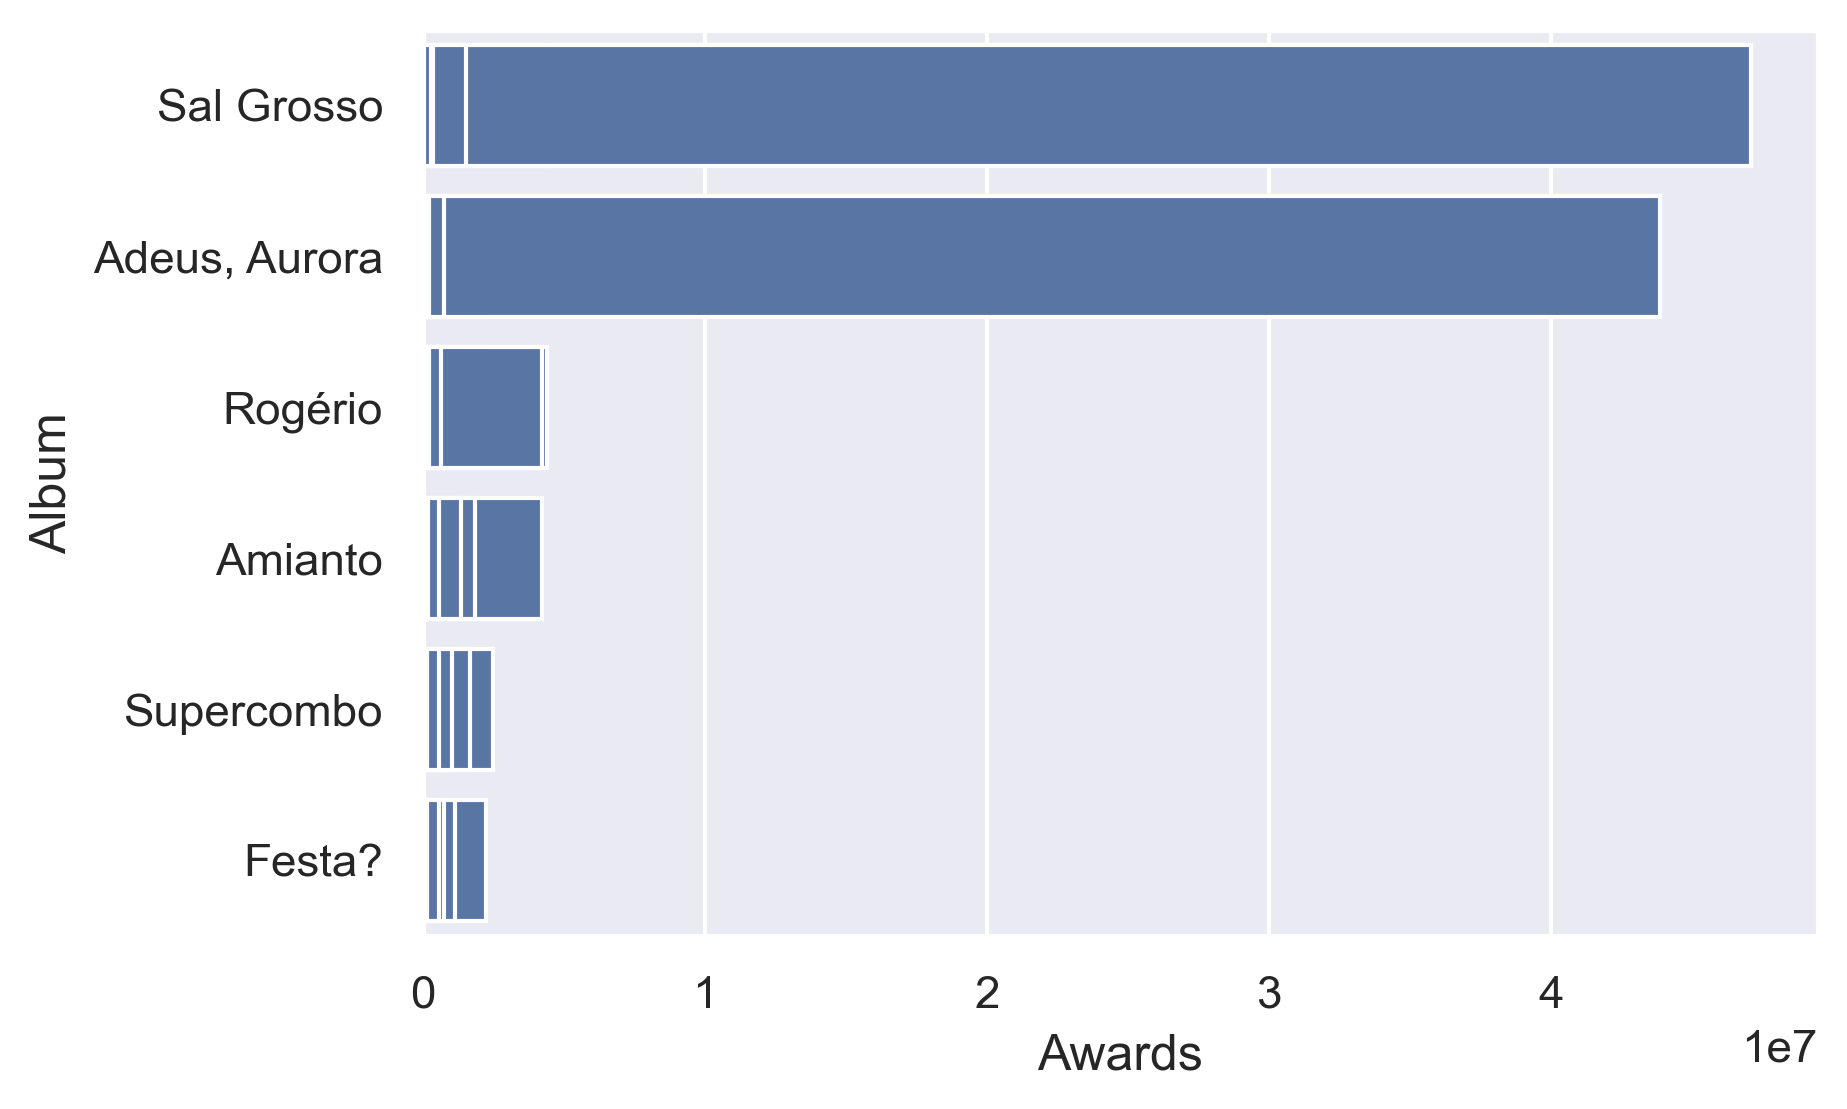
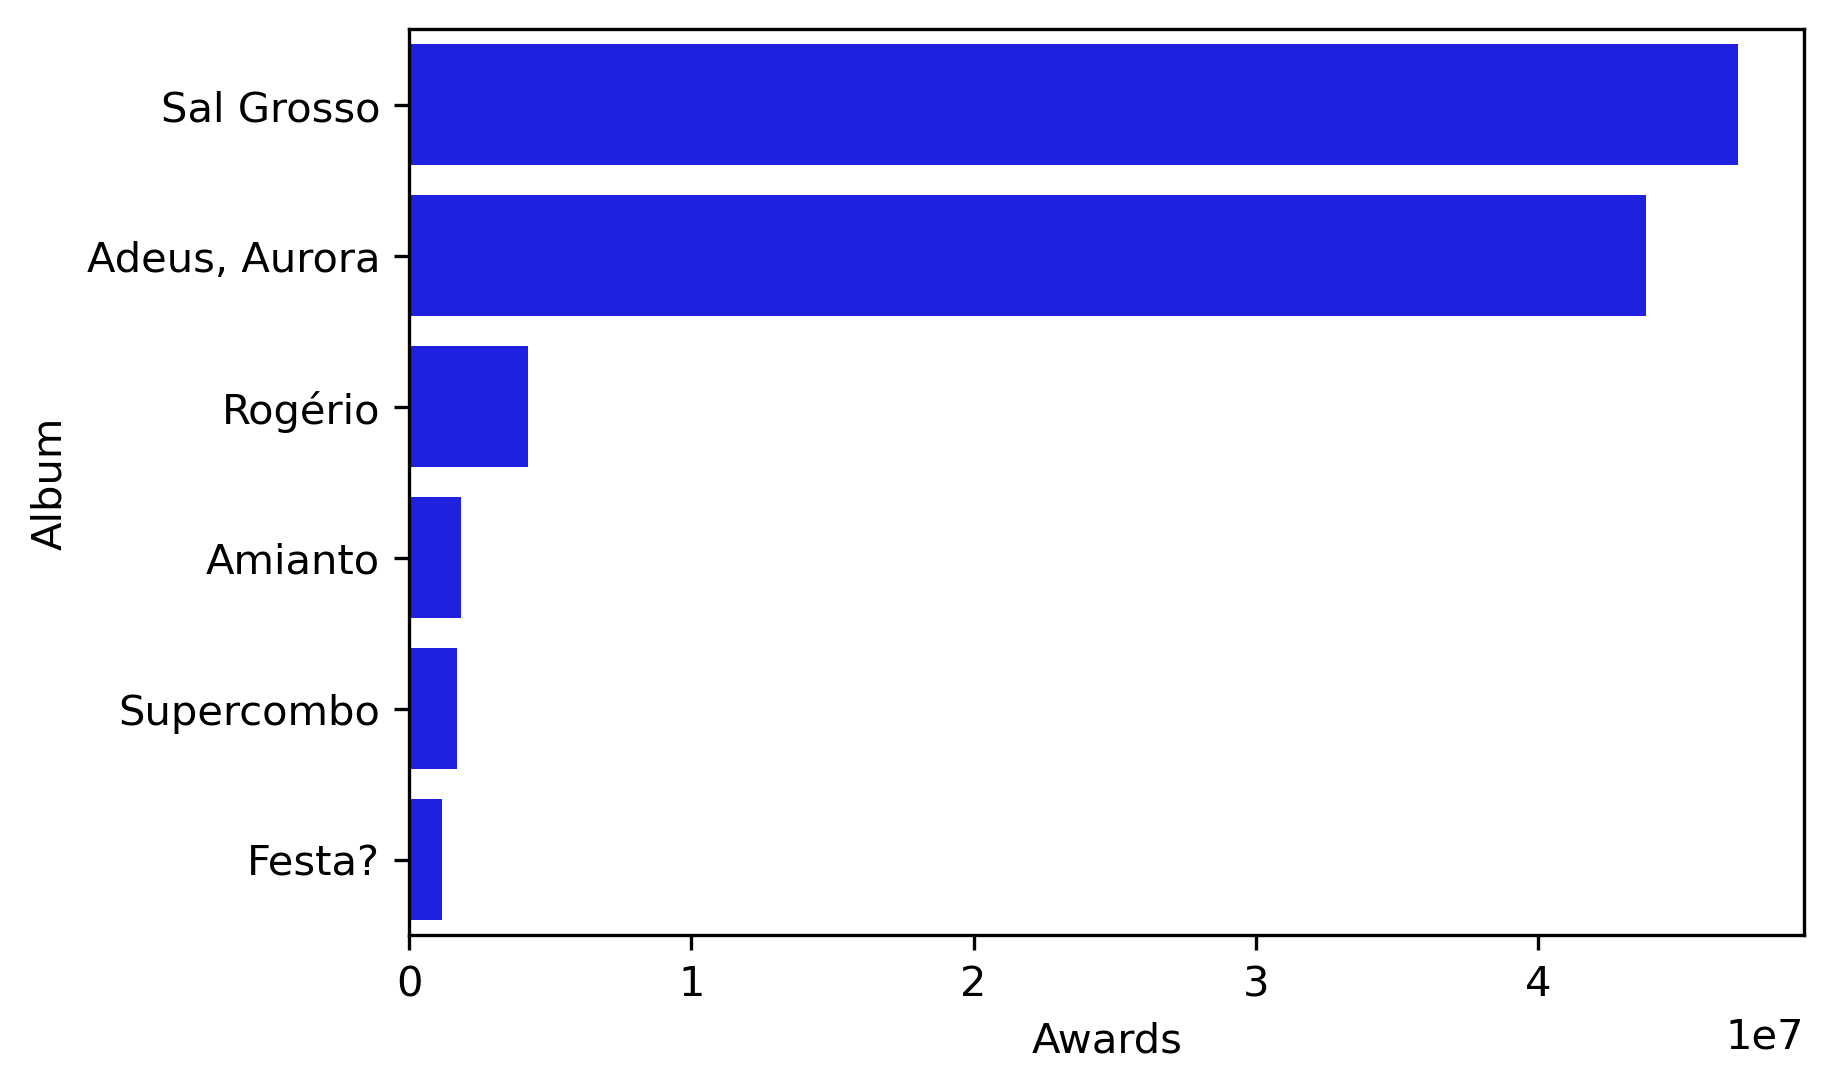
Seaborns final

diff --git a/source/questions.py b/source/questions.py
@@ -93,20 +93,20 @@ def longa_curta_album(df1,df2):
         
     n2 = 0
     for i in df1['Album']:
-        df_r_time_album = pd.DataFrame({"Música": musicList[n2], "Tempo": timesList[n2]})
+        df_r_time_album = pd.DataFrame({"Music": musicList[n2], "Time": timesList[n2]})
         
         print("Album: ", i, "\n")
-        print("Mais longas: \n", df_r_time_album.sort_values(by = 'Tempo', ascending = False).head(3), "\n", sep="")
-        print("Mais curtas: \n", df_r_time_album.sort_values(by = 'Tempo', ascending = True).head(3), sep="")
+        print("Mais longas: \n", df_r_time_album.sort_values(by = 'Time', ascending = False).head(3), "\n", sep="")
+        print("Mais curtas: \n", df_r_time_album.sort_values(by = 'Time', ascending = True).head(3), sep="")
         print("\n\n")
         
         #Média do tempo das músicas por álbum:
-        print("Média de tempo de música por álbum: ",round(df_r_time_album['Tempo'].mean(),2),"\n \n")
+        print("Média de tempo de música por álbum: ",round(df_r_time_album['Time'].mean(),2),"\n \n")
     
         #Seaborn plot
-        sns.set(font_scale=1)
-        sns.barplot(x="Tempo", y="Música", data=df_r_time_album.sort_values(by = 'Tempo', ascending = False), color="b")
-        plt.savefig("..\\images\\time_album" + str(n2) + ".png", dpi = 300, bbox_inches = 'tight')
+        
+        sns.barplot(x="Time", y="Music", data=df_r_time_album.sort_values(by = 'Time', ascending = False), color="b")
+        plt.savefig("..\\images\\time_byalbum" + str(n2) + ".png", dpi = 300, bbox_inches = 'tight')
         
         n2 += 1
 # Mais ouvidas e menos ouvidas por álbum:
@@ -172,7 +172,7 @@ def popular_inpopular_album(df1,df2):
         print("\n\n")
         
         #Seaborn plot
-        sns.set(font_scale=1)
+        
         sns.barplot(x='Views', y='Music', data=df_r_viw_album.sort_values(by = 'Views', ascending = False), color="b")
         plt.savefig("..\\images\\popularity_by_album_" + str(n2) + ".png", dpi = 300, bbox_inches = 'tight')
 
@@ -183,7 +183,7 @@ def popular_inpopular_album(df1,df2):
 def longa_curta(df1,df2):
     
     """
-    Prints the longest and shortest song in the entire discography on the console, and creates a seaborn plot,'time_music_ranking.png', with the musics in descending order by time.
+    Prints the longest and shortest song in the entire discography on the console, and creates two seaborns plots, one with the 10 longest musics and other with the 10 shortest.
 
     :param df1: pandas.core.frame.DataFrame
     :param df2: pandas.core.frame.DataFrame
@@ -217,16 +217,19 @@ def longa_curta(df1,df2):
     print("\n")
     
     #Seaborn plot
-    sns.set(font_scale=0.08)
-    sns.barplot(x='Time', y='Music', data=df2.sort_values(by = 'Time', ascending = False), color="b")
-    plt.savefig("..\\images\\time_music_ranking.png", dpi = 300, bbox_inches = 'tight')
-
+    
+    sns.barplot(x='Time', y='Music', data=df2.head(10).sort_values(by = 'Time', ascending = False), color="b")
+    plt.savefig("..\\images\\time_music_headranking.png", dpi = 300, bbox_inches = 'tight')
+    
+    sns.barplot(x='Time', y='Music', data=df2.tail(10).sort_values(by = 'Time', ascending = False), color="b")
+    plt.savefig("..\\images\\time_music_tailranking.png", dpi = 300, bbox_inches = 'tight')
+    
 # Mais vista e menos vista de todas
 
 def popular_inpopular(df1,df2):
     
     """
-    Prints on the console the most popular and least popular song of the entire discography, and creates a seaborn plot,'music_views_ranking.png' with the musics in descending order by number of the views.
+    Prints on the console the most popular and least popular song of the entire discography, and creates 2 seaborns plots,one with the 10 more famous, and other with the 10 less famous musics.
 
     :param df1: pandas.core.frame.DataFrame
     :param df2: pandas.core.frame.DataFrame
@@ -262,9 +265,12 @@ def popular_inpopular(df1,df2):
     print("\n")
     
     #Seaborn plot
-    sns.set(font_scale=0.08)
-    sns.barplot(x='Views', y='Music', data=df2.sort_values(by = 'Views', ascending = False), color="b")
-    plt.savefig("..\\images\\music_views_ranking.png", dpi = 300, bbox_inches = 'tight')
+    
+    sns.barplot(x='Views', y='Music', data=df2.head(10).sort_values(by = 'Views', ascending = False), color="b")
+    plt.savefig("..\\images\\music_views_headranking.png", dpi = 300, bbox_inches = 'tight')
+    
+    sns.barplot(x='Views', y='Music', data=df2.tail(10).sort_values(by = 'Views', ascending = False), color="b")
+    plt.savefig("..\\images\\music_views_headranking.png", dpi = 300, bbox_inches = 'tight')
 
 # Album mais premiado
 
@@ -287,7 +293,7 @@ def premiados(df1,df2):
     print("\n")
     
     #Seaborn plot
-    sns.set(font_scale=1)
+    
     sns.barplot(x='Awards', y='Album', data=df1.sort_values(by = 'Awards', ascending = False), color="b")
     plt.savefig("..\\images\\awards_ranking.png", dpi = 300, bbox_inches = 'tight')
 
@@ -349,7 +355,7 @@ def relacao_tempo_popularidade(df1,df2):
     print("O coeficiente de relação é: ", r , " Portanto não são relacionados \n")
     
     #Seaborn plot
-    sns.set(font_scale=0.2)
+    
     g = sns.lmplot(data=df2, x="Time", y="Views")
     g.ax.axline(xy1=(10, 2), slope=.2, color="b", dashes=(5, 2))
     plt.savefig("..\\images\\mean_time.png",dpi = 300, bbox_inches = 'tight')

diff --git a/source/main.py b/source/main.py
@@ -27,28 +27,28 @@ q.premiados(df1, df2)
 q.relacao_tempo_popularidade(df1, df2)
 
 
-# GRUPO DE QUESTÕES 2 EM ORDEM
+# # GRUPO DE QUESTÕES 2 EM ORDEM
 
-q.palavras_titulos_albuns(df1, df2)
+# q.palavras_titulos_albuns(df1, df2)
 
-q.palavras_titulos_musicas(df1, df2)
+# q.palavras_titulos_musicas(df1, df2)
 
-q.palavras_letras_album(df1, df2)
+# q.palavras_letras_album(df1, df2)
 
-q.palavras_letras(df1, df2)
+# q.palavras_letras(df1, df2)
 
-q.palavras_album_tema(df1, df2)
+# q.palavras_album_tema(df1, df2)
 
-q.palavras_musica_tema(df1, df2)
+# q.palavras_musica_tema(df1, df2)
 
 
-# GRUPO DE QUESTÕES 3
+# # GRUPO DE QUESTÕES 3
 
-# Média de tempo das músicas por album 
-# (Respondida junto a questão 1.1)
+# # Média de tempo das músicas por album 
+# # (Respondida junto a questão 1.1)
 
-# Média de tempo das músicas em toda discografia
-q.media_tempos(df1, df2)
+# # Média de tempo das músicas em toda discografia
+# q.media_tempos(df1, df2)
 
-# Gravadora mais comum
-q.gravadora_comum(df1, df2)
+# # Gravadora mais comum
+# q.gravadora_comum(df1, df2)
